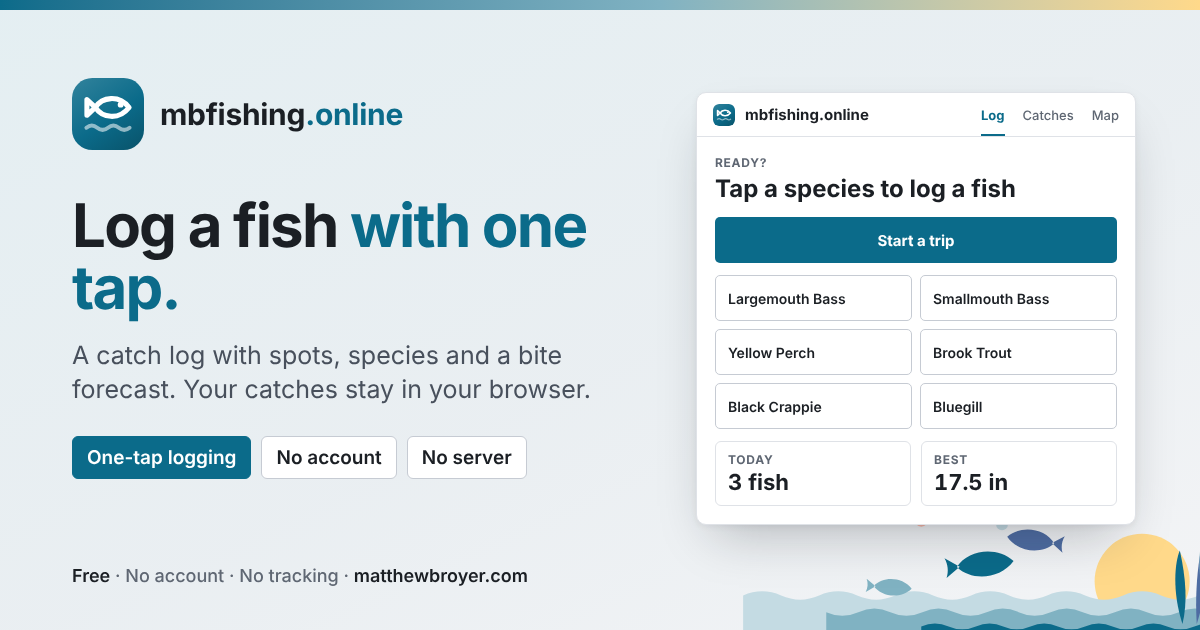
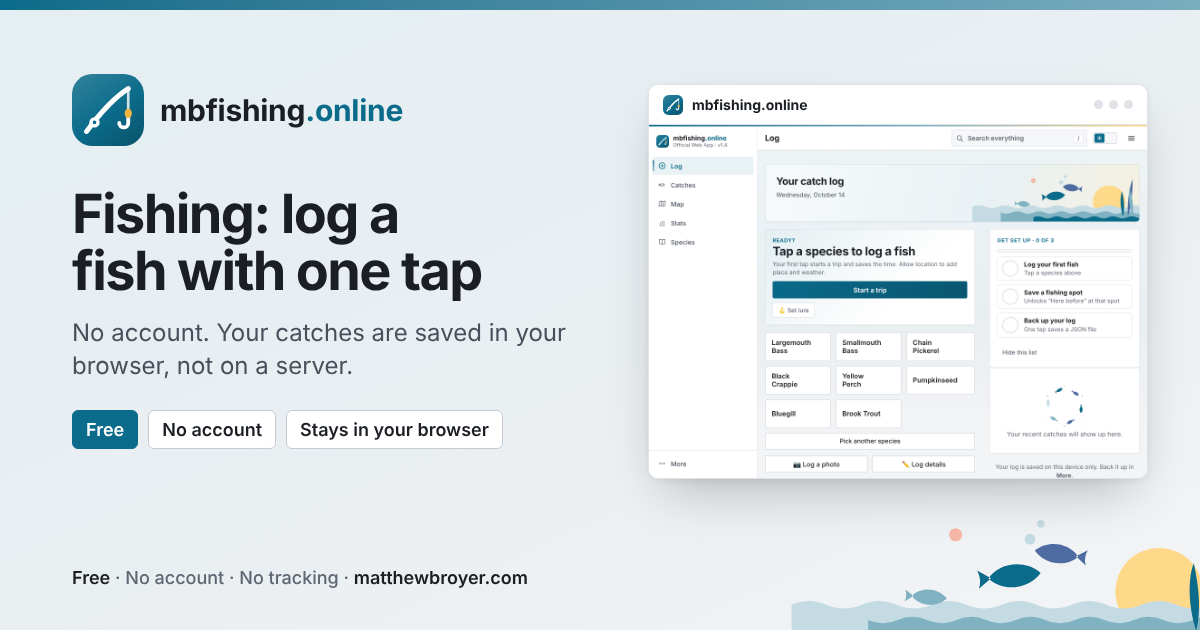
Add files via upload

diff --git a/index.html b/index.html
@@ -13,7 +13,7 @@
 <meta property="og:title" content="Fishing: log a fish with one tap">
 <meta property="og:description" content="No account. Your catches are saved in your browser, not on a server.">
 <meta property="og:url" content="https://mbfishing.online/">
-<meta property="og:image" content="https://mbfishing.online/og-image.png?v=3">
+<meta property="og:image" content="https://mbfishing.online/og-image.png?v=4">
 <meta property="og:image:type" content="image/png">
 <meta property="og:image:width" content="1200">
 <meta property="og:image:height" content="630">
@@ -21,7 +21,7 @@
 <meta name="twitter:card" content="summary_large_image">
 <meta name="twitter:title" content="Fishing: log a fish with one tap">
 <meta name="twitter:description" content="No account. Your catches are saved in your browser, not on a server.">
-<meta name="twitter:image" content="https://mbfishing.online/og-image.png?v=3">
+<meta name="twitter:image" content="https://mbfishing.online/og-image.png?v=4">
 <meta name="twitter:image:alt" content="mbfishing.online: log a fish with one tap. The app's species buttons and a Start a trip button.">
 <script>var __t="light";try{if(localStorage.getItem("mbfishing.theme")==="dark")__t="dark"}catch(e){}document.documentElement.setAttribute("data-theme",__t)</script>
 <script type="application/ld+json">{"@context": "https://schema.org", "@type": "WebApplication", "name": "mbfishing.online", "alternateName": "Fishing", "url": "https://mbfishing.online/", "description": "A free fishing log that runs in your browser. Log a catch with one tap and track trips, spots, personal bests and a bite forecast. No account; your catches stay on your device.", "applicationCategory": "SportsApplication", "operatingSystem": "Any (runs in a web browser)", "browserRequirements": "Requires JavaScript.", "isAccessibleForFree": true, "image": "https://mbfishing.online/og-image.png", "offers": {"@type": "Offer", "price": "0", "priceCurrency": "USD"}}</script>
@@ -1008,13 +1008,15 @@ body.mb-shell{display:block;height:100dvh;overflow:hidden}
 <body class="mb-shell">
 <a class="skip" href="#main" data-act="skip">Skip to content</a>
 <aside class="mb-side" id="side" aria-label="App">
-  <a class="brand" href="./" data-act="go" data-v="log" aria-label="mbfishing.online: go to Log"><span class="logo"><svg aria-hidden="true" focusable="false" width="28" height="28" viewBox="0 0 64 64" xmlns="http://www.w3.org/2000/svg"><defs><linearGradient id="mbfi-g1a" gradientUnits="userSpaceOnUse" x1="10" y1="0" x2="54" y2="64"><stop offset="0" stop-color="#2d809a"/><stop offset=".55" stop-color="#0B6B8A"/><stop offset="1" stop-color="#09566e"/></linearGradient><clipPath id="mbfi-c1a"><rect width="64" height="64" rx="18"/></clipPath></defs><g clip-path="url(#mbfi-c1a)"><rect width="64" height="64" fill="url(#mbfi-g1a)"/><g transform="translate(0,-5.8128604)"><path transform="translate(0.8,-1.5)" d="m 12,51.5 c 3.2,-2.6 6.4,-2.6 9.6,0 3.2,2.6 6.4,2.6 9.6,0 3.2,-2.6 6.4,-2.6 9.6,0 3.2,2.6 6.4,2.6 9.6,0" stroke="#ffffff" stroke-opacity="0.55" stroke-width="3.5" stroke-linecap="round" fill="none"/><g transform="translate(0.75)"><path d="m 20,32 c 6,-9.5 21,-11.5 30,0 -9,11.5 -24,9.5 -30,0 z" stroke="#ffffff" stroke-width="4.5" stroke-linecap="round" stroke-linejoin="round" fill="none"/><path d="M 20,32 12.5,25 V 39 Z" stroke="#ffffff" stroke-width="4.5" stroke-linecap="round" stroke-linejoin="round" fill="none"/><circle cx="42.5" cy="29.5" r="2.5999999" fill="#ffffff"/></g></g></g></svg></span><span class="bt"><b>mbfishing<i class="tld">.online</i></b><span>Official Web App · v1.4</span></span></a>
+  <a class="brand" href="./" data-act="go" data-v="log" aria-label="mbfishing.online: go to Log"><span class="logo"><svg aria-hidden="true" focusable="false" width="28" height="28" viewBox="0 0 64 64" xmlns="http://www.w3.org/2000/svg"><defs><linearGradient id="mbfi-g1-1" gradientUnits="userSpaceOnUse" x1="10" y1="0" x2="54" y2="64"><stop offset="0" stop-color="#2d809a"/><stop offset=".55" stop-color="#0B6B8A"/><stop offset="1" stop-color="#09566e"/></linearGradient><clipPath id="mbfi-c1-1"><rect width="64" height="64" rx="18"/></clipPath></defs><g clip-path="url(#mbfi-c1-1)"><rect width="64" height="64" fill="url(#mbfi-g1-1)"/><path d="M13 51C24 36 36 22 50 13" fill="none" stroke="#fff" stroke-width="4.5" stroke-linecap="round"/><circle cx="20" cy="43" r="4.6" fill="#fff"/><circle cx="20" cy="43" r="1.6" fill="#0B6B8A"/>
+<path d="M50 13v23" stroke="#fff" stroke-opacity=".8" stroke-width="2.4"/><path d="M50 38v5.5a4 4 0 0 1-8 0" fill="none" stroke="#fff" stroke-width="3.4" stroke-linecap="round"/><ellipse cx="50" cy="35" rx="3.2" ry="4.2" fill="#F2B640"/></g></svg></span><span class="bt"><b>mbfishing<i class="tld">.online</i></b><span>Official Web App · v1.4</span></span></a>
   <nav class="side-nav" aria-label="Sections"><button type="button" data-act="go" data-v="log" aria-current="page"><svg class="uic" viewBox="0 0 24 24" width="18" height="18" fill="none" stroke="currentColor" stroke-width="2" stroke-linecap="round" stroke-linejoin="round" aria-hidden="true" focusable="false"><circle cx="12" cy="12" r="9"/><path d="M12 8v8M8 12h8"/></svg><span>Log</span></button><button type="button" data-act="go" data-v="catches"><svg class="uic" viewBox="0 0 24 24" width="18" height="18" fill="none" stroke="currentColor" stroke-width="2" stroke-linecap="round" stroke-linejoin="round" aria-hidden="true" focusable="false"><path d="M6.5 12c2.5-4 8.5-4.8 12.5 0-4 4.8-10 4-12.5 0z"/><path d="M6.5 12 3 9v6z"/><circle cx="15.5" cy="11.3" r=".9" fill="currentColor" stroke="none"/></svg><span>Catches</span></button><button type="button" data-act="go" data-v="map"><svg class="uic" viewBox="0 0 24 24" width="18" height="18" fill="none" stroke="currentColor" stroke-width="2" stroke-linecap="round" stroke-linejoin="round" aria-hidden="true" focusable="false"><path d="M9 4 3 6.5v13L9 17l6 2.5 6-2.5v-13L15 6.5 9 4z"/><path d="M9 4v13M15 6.5v13"/></svg><span>Map</span></button><button type="button" data-act="go" data-v="stats"><svg class="uic" viewBox="0 0 24 24" width="18" height="18" fill="none" stroke="currentColor" stroke-width="2" stroke-linecap="round" stroke-linejoin="round" aria-hidden="true" focusable="false"><path d="M4 20h16"/><path d="M7 16v-5M12 16V7M17 16v-8"/></svg><span>Stats</span></button><button type="button" data-act="go" data-v="species"><svg class="uic" viewBox="0 0 24 24" width="18" height="18" fill="none" stroke="currentColor" stroke-width="2" stroke-linecap="round" stroke-linejoin="round" aria-hidden="true" focusable="false"><path d="M12 6.5C10.5 5 8 4.5 4 4.5v13c4 0 6.5.5 8 2 1.5-1.5 4-2 8-2v-13c-4 0-6.5.5-8 2z"/><path d="M12 6.5v13"/></svg><span>Species</span></button></nav>
   <nav class="side-nav side-end" aria-label="More"><button type="button" data-act="go" data-v="more" class="nav-more"><svg class="uic" viewBox="0 0 24 24" width="18" height="18" fill="none" stroke="currentColor" stroke-width="2" stroke-linecap="round" stroke-linejoin="round" aria-hidden="true" focusable="false"><circle cx="5.5" cy="12" r="1.2" fill="currentColor"/><circle cx="12" cy="12" r="1.2" fill="currentColor"/><circle cx="18.5" cy="12" r="1.2" fill="currentColor"/></svg><span>More</span></button></nav>
 </aside>
 <div class="mb-main">
 <header class="page-bar" id="pagebar">
-  <a class="brand phone-brand" href="./" data-act="go" data-v="log" aria-label="mbfishing.online: go to Log"><span class="logo"><svg aria-hidden="true" focusable="false" width="28" height="28" viewBox="0 0 64 64" xmlns="http://www.w3.org/2000/svg"><defs><linearGradient id="mbfi-g1b" gradientUnits="userSpaceOnUse" x1="10" y1="0" x2="54" y2="64"><stop offset="0" stop-color="#2d809a"/><stop offset=".55" stop-color="#0B6B8A"/><stop offset="1" stop-color="#09566e"/></linearGradient><clipPath id="mbfi-c1b"><rect width="64" height="64" rx="18"/></clipPath></defs><g clip-path="url(#mbfi-c1b)"><rect width="64" height="64" fill="url(#mbfi-g1b)"/><g transform="translate(0,-5.8128604)"><path transform="translate(0.8,-1.5)" d="m 12,51.5 c 3.2,-2.6 6.4,-2.6 9.6,0 3.2,2.6 6.4,2.6 9.6,0 3.2,-2.6 6.4,-2.6 9.6,0 3.2,2.6 6.4,2.6 9.6,0" stroke="#ffffff" stroke-opacity="0.55" stroke-width="3.5" stroke-linecap="round" fill="none"/><g transform="translate(0.75)"><path d="m 20,32 c 6,-9.5 21,-11.5 30,0 -9,11.5 -24,9.5 -30,0 z" stroke="#ffffff" stroke-width="4.5" stroke-linecap="round" stroke-linejoin="round" fill="none"/><path d="M 20,32 12.5,25 V 39 Z" stroke="#ffffff" stroke-width="4.5" stroke-linecap="round" stroke-linejoin="round" fill="none"/><circle cx="42.5" cy="29.5" r="2.5999999" fill="#ffffff"/></g></g></g></svg></span><span class="bt"><b>mbfishing<i class="tld">.online</i></b><span>Official Web App · v1.4</span></span></a>
+  <a class="brand phone-brand" href="./" data-act="go" data-v="log" aria-label="mbfishing.online: go to Log"><span class="logo"><svg aria-hidden="true" focusable="false" width="28" height="28" viewBox="0 0 64 64" xmlns="http://www.w3.org/2000/svg"><defs><linearGradient id="mbfi-g1-2" gradientUnits="userSpaceOnUse" x1="10" y1="0" x2="54" y2="64"><stop offset="0" stop-color="#2d809a"/><stop offset=".55" stop-color="#0B6B8A"/><stop offset="1" stop-color="#09566e"/></linearGradient><clipPath id="mbfi-c1-2"><rect width="64" height="64" rx="18"/></clipPath></defs><g clip-path="url(#mbfi-c1-2)"><rect width="64" height="64" fill="url(#mbfi-g1-2)"/><path d="M13 51C24 36 36 22 50 13" fill="none" stroke="#fff" stroke-width="4.5" stroke-linecap="round"/><circle cx="20" cy="43" r="4.6" fill="#fff"/><circle cx="20" cy="43" r="1.6" fill="#0B6B8A"/>
+<path d="M50 13v23" stroke="#fff" stroke-opacity=".8" stroke-width="2.4"/><path d="M50 38v5.5a4 4 0 0 1-8 0" fill="none" stroke="#fff" stroke-width="3.4" stroke-linecap="round"/><ellipse cx="50" cy="35" rx="3.2" ry="4.2" fill="#F2B640"/></g></svg></span><span class="bt"><b>mbfishing<i class="tld">.online</i></b><span>Official Web App · v1.4</span></span></a>
   <h1 class="page-title" id="page-title" tabindex="-1">Log</h1>
   <button id="pill" data-act="go" data-v="log" hidden></button>
   <div class="actions">

diff --git a/privacy.html b/privacy.html
@@ -57,7 +57,8 @@ h1{font-weight:650;letter-spacing:-.015em}h2{font-weight:650}
 </head>
 <body>
 <main>
-<a class="brand" href="./" aria-label="mbfishing.online: go to Log"><svg aria-hidden="true" focusable="false" width="28" height="28" viewBox="0 0 64 64" xmlns="http://www.w3.org/2000/svg"><defs><linearGradient id="mbfi-g1" gradientUnits="userSpaceOnUse" x1="10" y1="0" x2="54" y2="64"><stop offset="0" stop-color="#2d809a"/><stop offset=".55" stop-color="#0B6B8A"/><stop offset="1" stop-color="#09566e"/></linearGradient><clipPath id="mbfi-c1"><rect width="64" height="64" rx="18"/></clipPath></defs><g clip-path="url(#mbfi-c1)"><rect width="64" height="64" fill="url(#mbfi-g1)"/><g transform="translate(0,-5.8128604)"><path transform="translate(0.8,-1.5)" d="m 12,51.5 c 3.2,-2.6 6.4,-2.6 9.6,0 3.2,2.6 6.4,2.6 9.6,0 3.2,-2.6 6.4,-2.6 9.6,0 3.2,2.6 6.4,2.6 9.6,0" stroke="#ffffff" stroke-opacity="0.55" stroke-width="3.5" stroke-linecap="round" fill="none"/><g transform="translate(0.75)"><path d="m 20,32 c 6,-9.5 21,-11.5 30,0 -9,11.5 -24,9.5 -30,0 z" stroke="#ffffff" stroke-width="4.5" stroke-linecap="round" stroke-linejoin="round" fill="none"/><path d="M 20,32 12.5,25 V 39 Z" stroke="#ffffff" stroke-width="4.5" stroke-linecap="round" stroke-linejoin="round" fill="none"/><circle cx="42.5" cy="29.5" r="2.5999999" fill="#ffffff"/></g></g></g></svg><span class="bt"><b>mbfishing<i>.online</i></b><span>Official Web App · v1.4</span></span></a>
+<a class="brand" href="./" aria-label="mbfishing.online: go to Log"><svg aria-hidden="true" focusable="false" width="28" height="28" viewBox="0 0 64 64" xmlns="http://www.w3.org/2000/svg"><defs><linearGradient id="mbfi-g1-1" gradientUnits="userSpaceOnUse" x1="10" y1="0" x2="54" y2="64"><stop offset="0" stop-color="#2d809a"/><stop offset=".55" stop-color="#0B6B8A"/><stop offset="1" stop-color="#09566e"/></linearGradient><clipPath id="mbfi-c1-1"><rect width="64" height="64" rx="18"/></clipPath></defs><g clip-path="url(#mbfi-c1-1)"><rect width="64" height="64" fill="url(#mbfi-g1-1)"/><path d="M13 51C24 36 36 22 50 13" fill="none" stroke="#fff" stroke-width="4.5" stroke-linecap="round"/><circle cx="20" cy="43" r="4.6" fill="#fff"/><circle cx="20" cy="43" r="1.6" fill="#0B6B8A"/>
+<path d="M50 13v23" stroke="#fff" stroke-opacity=".8" stroke-width="2.4"/><path d="M50 38v5.5a4 4 0 0 1-8 0" fill="none" stroke="#fff" stroke-width="3.4" stroke-linecap="round"/><ellipse cx="50" cy="35" rx="3.2" ry="4.2" fill="#F2B640"/></g></svg><span class="bt"><b>mbfishing<i>.online</i></b><span>Official Web App · v1.4</span></span></a>
 <a class="back" href="./">← Back to the app</a>
 <h1>Privacy</h1>
 <p class="muted">Last updated October 5, 2026. This page describes what the app does today. If the app changes, this page changes with it.</p>

diff --git a/terms.html b/terms.html
@@ -55,7 +55,8 @@ h1{font-weight:650;letter-spacing:-.015em}h2{font-weight:650}
 </head>
 <body>
 <main>
-<a class="brand" href="./" aria-label="mbfishing.online: go to Log"><svg aria-hidden="true" focusable="false" width="28" height="28" viewBox="0 0 64 64" xmlns="http://www.w3.org/2000/svg"><defs><linearGradient id="mbfi-g1" gradientUnits="userSpaceOnUse" x1="10" y1="0" x2="54" y2="64"><stop offset="0" stop-color="#2d809a"/><stop offset=".55" stop-color="#0B6B8A"/><stop offset="1" stop-color="#09566e"/></linearGradient><clipPath id="mbfi-c1"><rect width="64" height="64" rx="18"/></clipPath></defs><g clip-path="url(#mbfi-c1)"><rect width="64" height="64" fill="url(#mbfi-g1)"/><g transform="translate(0,-5.8128604)"><path transform="translate(0.8,-1.5)" d="m 12,51.5 c 3.2,-2.6 6.4,-2.6 9.6,0 3.2,2.6 6.4,2.6 9.6,0 3.2,-2.6 6.4,-2.6 9.6,0 3.2,2.6 6.4,2.6 9.6,0" stroke="#ffffff" stroke-opacity="0.55" stroke-width="3.5" stroke-linecap="round" fill="none"/><g transform="translate(0.75)"><path d="m 20,32 c 6,-9.5 21,-11.5 30,0 -9,11.5 -24,9.5 -30,0 z" stroke="#ffffff" stroke-width="4.5" stroke-linecap="round" stroke-linejoin="round" fill="none"/><path d="M 20,32 12.5,25 V 39 Z" stroke="#ffffff" stroke-width="4.5" stroke-linecap="round" stroke-linejoin="round" fill="none"/><circle cx="42.5" cy="29.5" r="2.5999999" fill="#ffffff"/></g></g></g></svg><span class="bt"><b>mbfishing<i>.online</i></b><span>Official Web App · v1.4</span></span></a>
+<a class="brand" href="./" aria-label="mbfishing.online: go to Log"><svg aria-hidden="true" focusable="false" width="28" height="28" viewBox="0 0 64 64" xmlns="http://www.w3.org/2000/svg"><defs><linearGradient id="mbfi-g1-1" gradientUnits="userSpaceOnUse" x1="10" y1="0" x2="54" y2="64"><stop offset="0" stop-color="#2d809a"/><stop offset=".55" stop-color="#0B6B8A"/><stop offset="1" stop-color="#09566e"/></linearGradient><clipPath id="mbfi-c1-1"><rect width="64" height="64" rx="18"/></clipPath></defs><g clip-path="url(#mbfi-c1-1)"><rect width="64" height="64" fill="url(#mbfi-g1-1)"/><path d="M13 51C24 36 36 22 50 13" fill="none" stroke="#fff" stroke-width="4.5" stroke-linecap="round"/><circle cx="20" cy="43" r="4.6" fill="#fff"/><circle cx="20" cy="43" r="1.6" fill="#0B6B8A"/>
+<path d="M50 13v23" stroke="#fff" stroke-opacity=".8" stroke-width="2.4"/><path d="M50 38v5.5a4 4 0 0 1-8 0" fill="none" stroke="#fff" stroke-width="3.4" stroke-linecap="round"/><ellipse cx="50" cy="35" rx="3.2" ry="4.2" fill="#F2B640"/></g></svg><span class="bt"><b>mbfishing<i>.online</i></b><span>Official Web App · v1.4</span></span></a>
 <a class="back" href="./">← Back to the app</a>
 <h1>Terms of use</h1>
 <p class="muted">Last updated October 5, 2026.</p>

diff --git a/404.html b/404.html
@@ -53,7 +53,8 @@ footer a{color:var(--muted);text-decoration:none}footer a:hover{color:var(--acce
 </head>
 <body>
 <div class="bar"></div>
-<header><a class="brand" href="/"><svg aria-hidden="true" focusable="false" viewBox="0 0 64 64" xmlns="http://www.w3.org/2000/svg"><defs><linearGradient id="mbfi-g1" gradientUnits="userSpaceOnUse" x1="10" y1="0" x2="54" y2="64"><stop offset="0" stop-color="#2d809a"/><stop offset=".55" stop-color="#0B6B8A"/><stop offset="1" stop-color="#09566e"/></linearGradient><clipPath id="mbfi-c1"><rect width="64" height="64" rx="18"/></clipPath></defs><g clip-path="url(#mbfi-c1)"><rect width="64" height="64" fill="url(#mbfi-g1)"/><g transform="translate(0,-5.8128604)"><path transform="translate(0.8,-1.5)" d="m 12,51.5 c 3.2,-2.6 6.4,-2.6 9.6,0 3.2,2.6 6.4,2.6 9.6,0 3.2,-2.6 6.4,-2.6 9.6,0 3.2,2.6 6.4,2.6 9.6,0" stroke="#ffffff" stroke-opacity="0.55" stroke-width="3.5" stroke-linecap="round" fill="none"/><g transform="translate(0.75)"><path d="m 20,32 c 6,-9.5 21,-11.5 30,0 -9,11.5 -24,9.5 -30,0 z" stroke="#ffffff" stroke-width="4.5" stroke-linecap="round" stroke-linejoin="round" fill="none"/><path d="M 20,32 12.5,25 V 39 Z" stroke="#ffffff" stroke-width="4.5" stroke-linecap="round" stroke-linejoin="round" fill="none"/><circle cx="42.5" cy="29.5" r="2.5999999" fill="#ffffff"/></g></g></g></svg><span>mbfishing<i>.online</i></span></a></header>
+<header><a class="brand" href="/"><svg aria-hidden="true" focusable="false" xmlns="http://www.w3.org/2000/svg" viewBox="0 0 64 64"><defs><linearGradient id="mbfi-g1" gradientUnits="userSpaceOnUse" x1="10" y1="0" x2="54" y2="64"><stop offset="0" stop-color="#2d809a"/><stop offset=".55" stop-color="#0B6B8A"/><stop offset="1" stop-color="#09566e"/></linearGradient><clipPath id="mbfi-c1"><rect width="64" height="64" rx="18"/></clipPath></defs><g clip-path="url(#mbfi-c1)"><rect width="64" height="64" fill="url(#mbfi-g1)"/><path d="M13 51C24 36 36 22 50 13" fill="none" stroke="#fff" stroke-width="4.5" stroke-linecap="round"/><circle cx="20" cy="43" r="4.6" fill="#fff"/><circle cx="20" cy="43" r="1.6" fill="#0B6B8A"/>
+<path d="M50 13v23" stroke="#fff" stroke-opacity=".8" stroke-width="2.4"/><path d="M50 38v5.5a4 4 0 0 1-8 0" fill="none" stroke="#fff" stroke-width="3.4" stroke-linecap="round"/><ellipse cx="50" cy="35" rx="3.2" ry="4.2" fill="#F2B640"/></g></svg><span>mbfishing<i>.online</i></span></a></header>
 <main>
 <div class="card">
 <span class="code"><b>404</b><i aria-hidden="true">·</i>Page not found</span>

diff --git a/sw.js b/sw.js
@@ -3,7 +3,7 @@
    and remembers map tiles you've already viewed. Your fishing data (local storage and the photo database)
    is never touched by this file. "Delete all data" in the app also empties the tile cache below.
    BUMP VERSION ON EVERY RELEASE so old cached files are dropped. */
-const VERSION = 'mbfishing-20261014-325d7e7f';
+const VERSION = 'mbfishing-20261014-fd79a5ef';
 const SHELL = ['./', 'index.html', 'manifest.json', 'favicon.ico', 'favicon.svg', 'apple-touch-icon.png', 'mb-install.js', 'mb-share.js', 'fish-art.js', 'species-data.js', 'privacy.html', 'terms.html', 'vendor/LICENSES.txt', 'icon-192.png', 'icon-512.png', 'icon-maskable-512.png'];
 const RUNTIME = 'mbfishing-runtime-v1';
 const MAX_RUNTIME = 900;

diff --git a/RELEASE_NOTES.md b/RELEASE_NOTES.md
@@ -3,6 +3,7 @@
 The same notes show in the app under Menu → What’s new. Newest first.
 
 ## 1.4 · 2026-10-14
+- New logo, redrawn in the same style as the other mb apps (app icon, tab icon, share image and pages all updated).
 
 - About card at the bottom of More (the app's Settings page): version, release date, links and copyright in one place.
 - Installing from matthewbroyer.com: the hub's Install button opens the app with a short install prompt.
